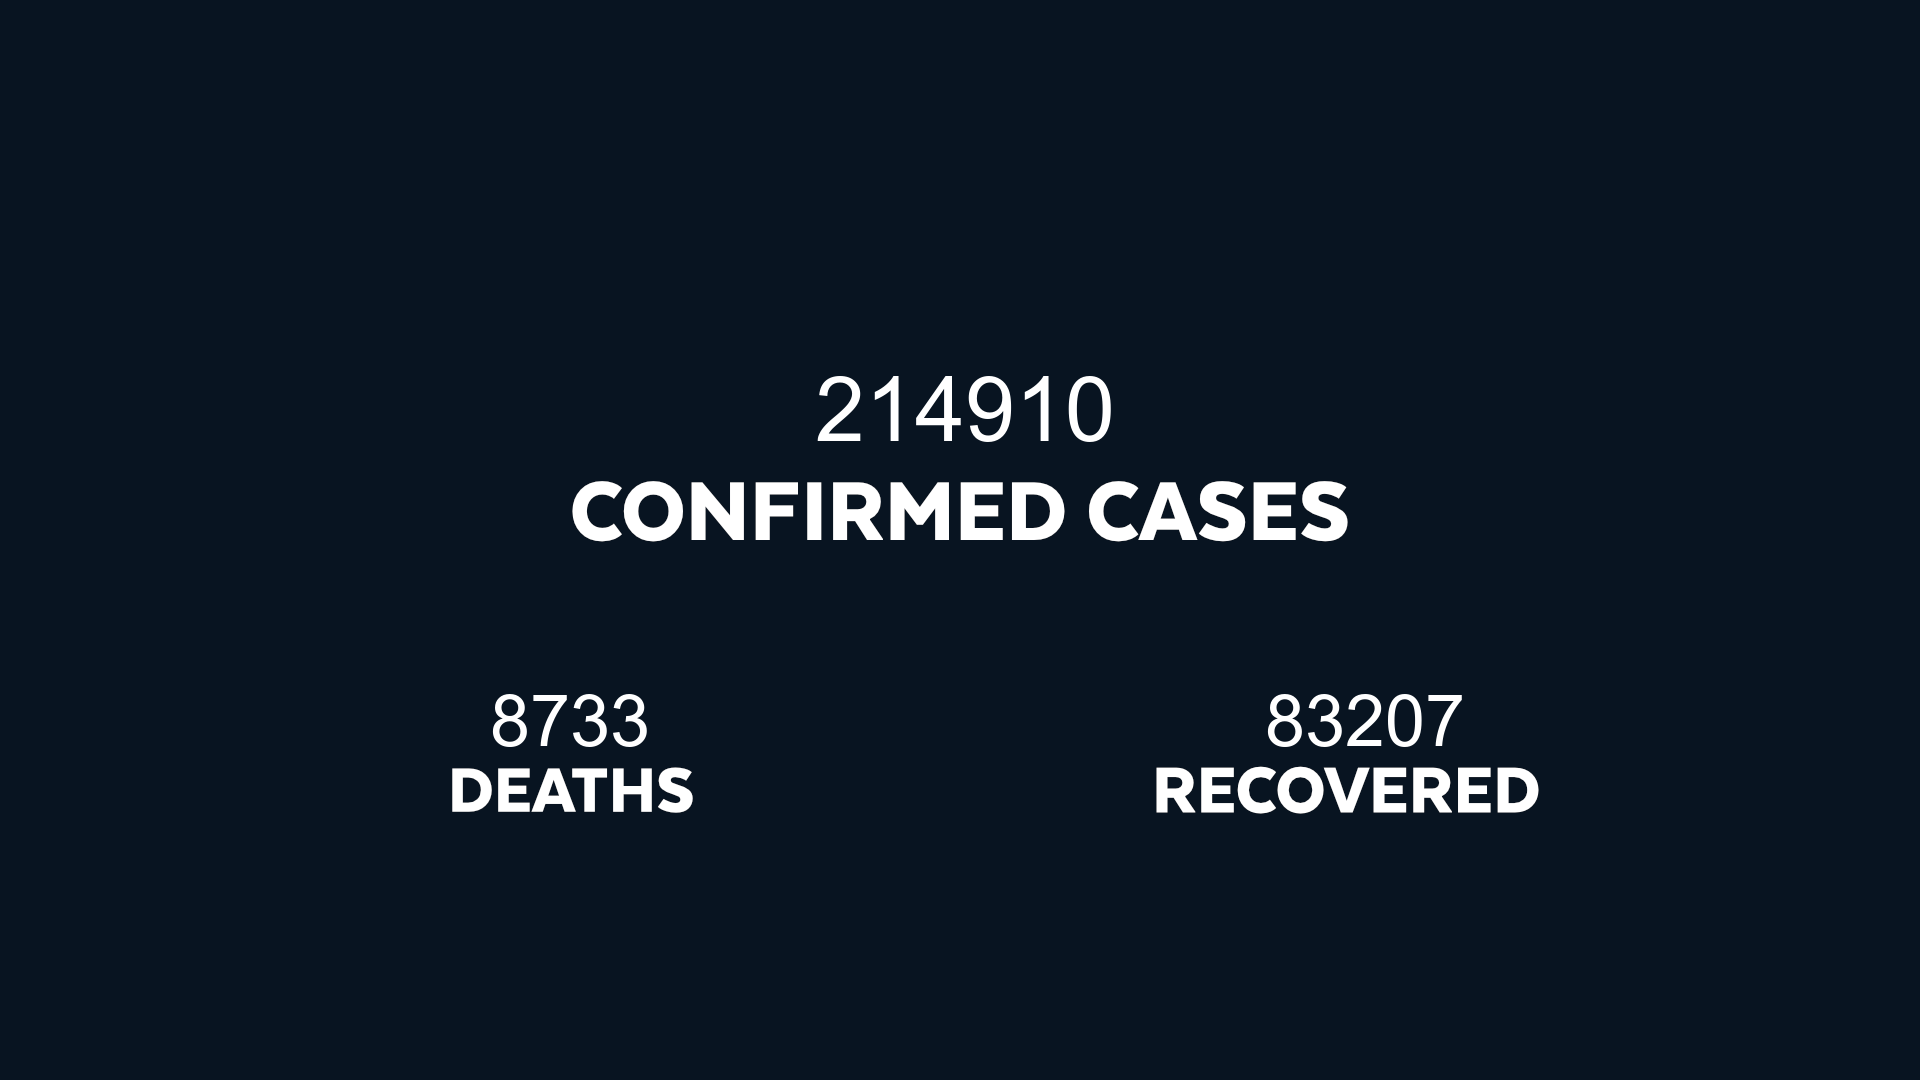
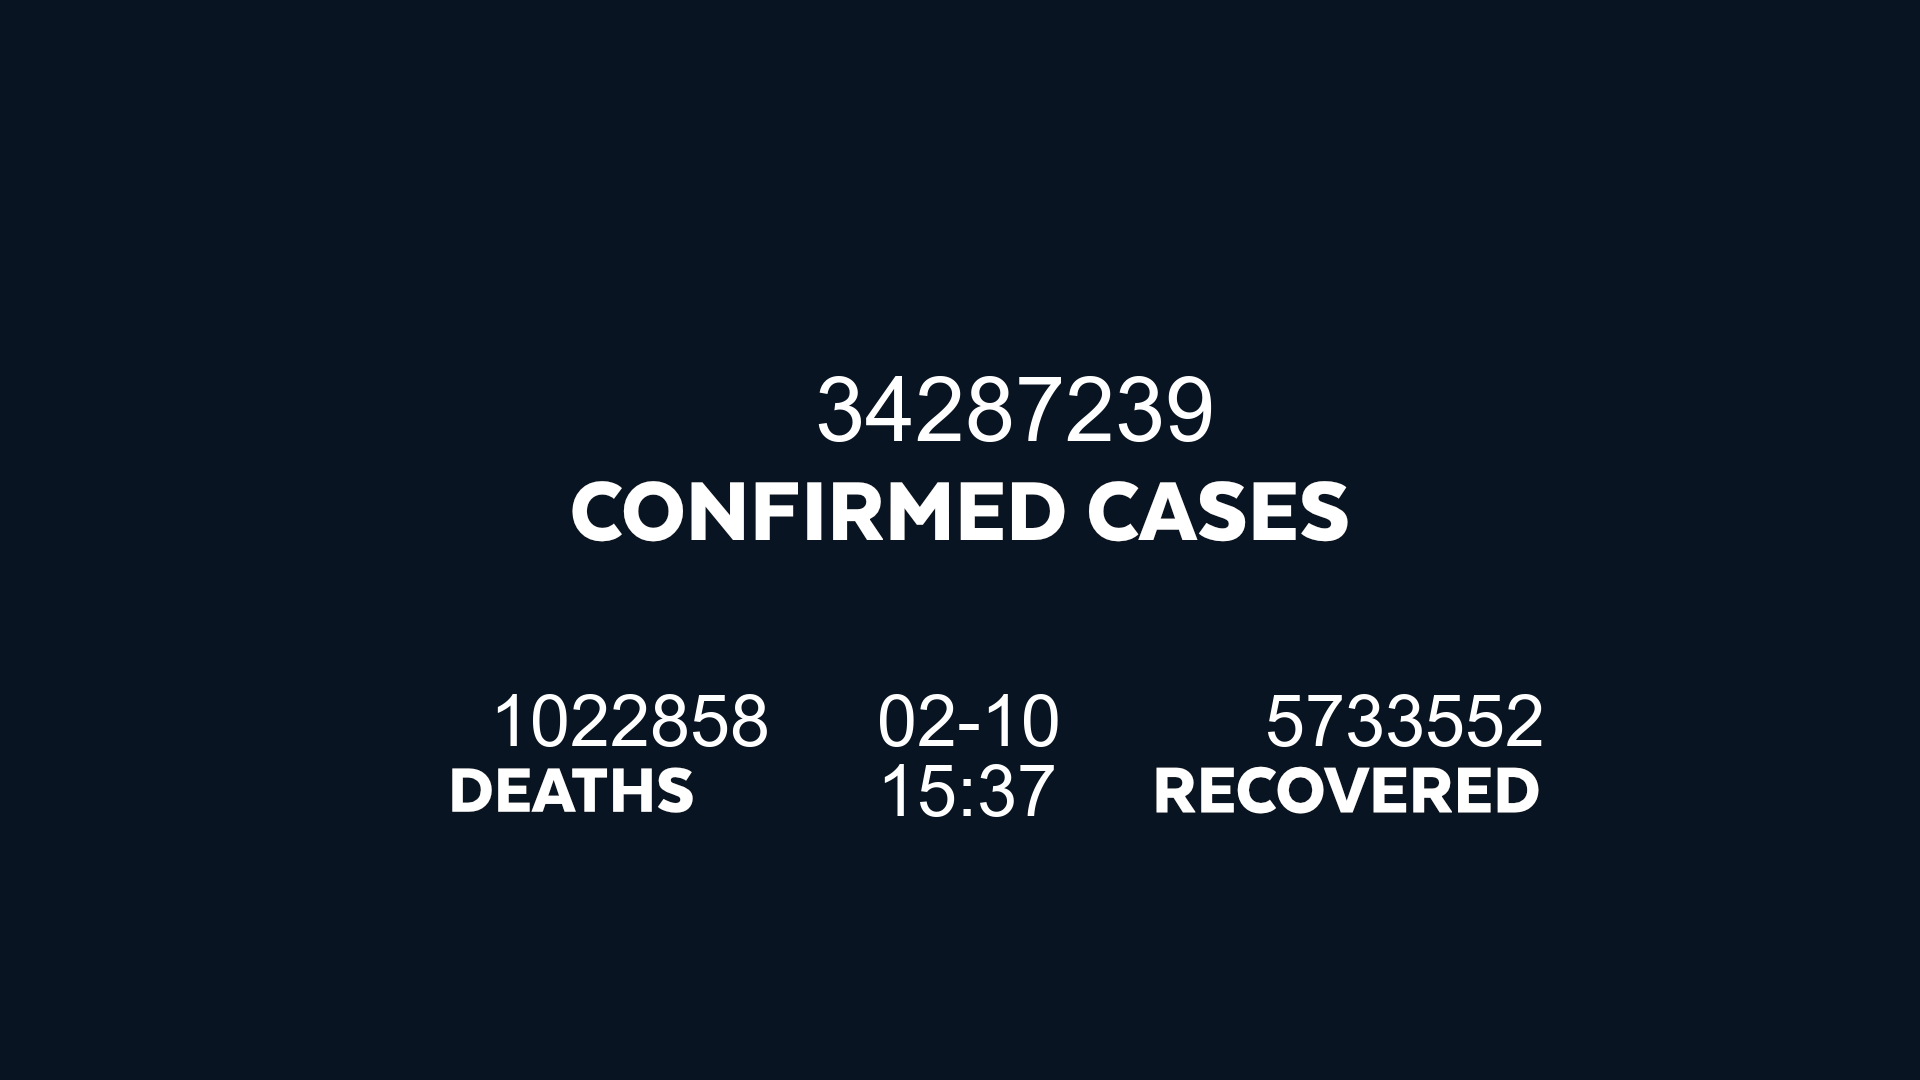
Add date and time, fix requirements.txt and fix broken source.

diff --git a/wallpaper.py b/wallpaper.py
@@ -3,6 +3,7 @@ import ctypes
 import PIL
 import api
 import config
+from time import gmtime, strftime
 from PIL import Image, ImageFilter, ImageDraw, ImageFont
 
 d = os.getcwd() # Get current working dir globally
@@ -24,5 +25,6 @@ def generate_wallpaper_and_set():
       draw.text(xy=(815,359), text=str(api.get_world_cases()[0]), fill = (255,255,255), font=large)
       draw.text(xy=(490,680), text=str(api.get_world_cases()[1]), fill = (255,255,255), font=small)
       draw.text(xy=(1265,680), text=str(api.get_world_cases()[2]), fill = (255,255,255), font=small)
+      draw.text(xy=(877,680), text=strftime("%d-%m\n%H:%M", gmtime()), fill = (255,255,255), font=small)
    image.save(config.resource_path('wallpaper.png'))
    set_wallpaper_from_file('wallpaper.png')

diff --git a/api.py b/api.py
@@ -466,7 +466,7 @@ correspondence = {
 }
 
 def get_world_cases():
-    covid19 = COVID19Py.COVID19(source='jhu')
+    covid19 = COVID19Py.COVID19(url="https://cvtapi.nl")
     data = covid19.getLatest()
     return data['confirmed'], data['deaths'], data['recovered']
 
@@ -474,7 +474,7 @@ def get_country_id(name: str):
     return correspondence[name]
 
 def get_country_stats(c_id: int):
-    covid19 = COVID19Py.COVID19()
+    covid19 = COVID19Py.COVID19(url="https://cvtapi.nl")
     data = covid19.getLocationById(c_id)
     return data['latest']['confirmed'], data['latest']['deaths'], data['latest']['recovered']
 
